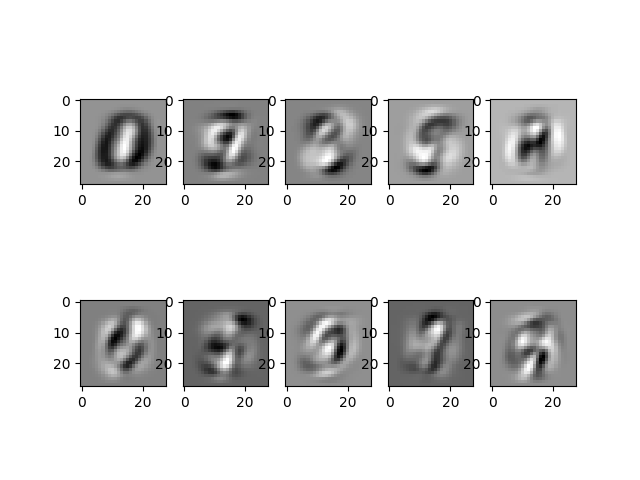
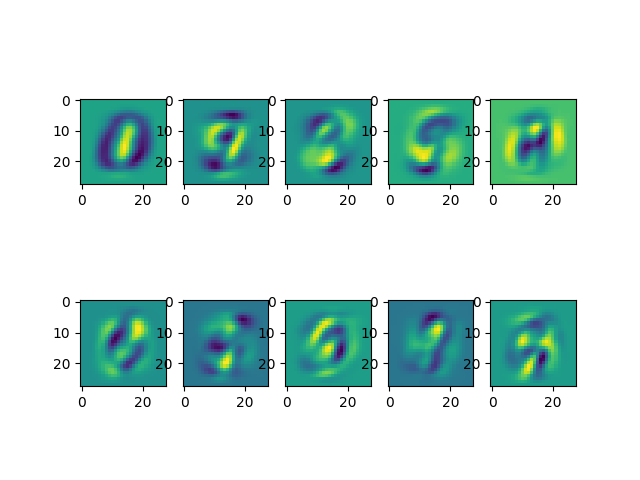
fixed a3

Changed region(s): [[0.125, 0.1875, 0.9062, 0.4062], [0.125, 0.625, 0.9062, 0.8125]]

diff --git a/hw4/cse446hw4.tex b/hw4/cse446hw4.tex
@@ -88,15 +88,9 @@ True. PCA uses pnly linear layers in contrast with the non-linear layers of the 
 \subsection*{a.}
 
 \begin{enumerate}
-  \item Let $\widehat{w}$ be the solution to the regression problem $\min_{w} \twonorm{Xw - y}$. Let $\widehat{w}_{\rm R}$ be the solution to the ridge regression problem $\min_w \twonorm{X w - y} + \lambda \twonorm{w}$. Let $X = U \Sigma V^\top$ be a singular value decomposition of $X$. Using this decomposition, explain why the solution $\widehat{w}_{\rm R}$ to the ridge regression problem ``shrinks'' as compared to the solution $\widehat{w}$ of the standard regression problem.
-  
-  The weights in the solution $\widehat{w}_{\rm R}$ to the ridge regression problem ``shrinks'' as compared to the solution $\widehat{w}$ of the standard regression problem since the singular values in the solution to the ridge regression problem are smaller, which are in response to the smaller variance that is achieved. (as is the purpose of using ridge regression over standard regression).
-  % small singular values due to lower variance in ridge regression (as is the aim)?
-  % I have no clue
-
+  \item 
+  % The weights in the solution $\widehat{w}_{\rm R}$ to the ridge regression problem ``shrinks'' as compared to the solution $\widehat{w}$ of the standard regression problem since the singular values in the solution to the ridge regression problem are smaller, which are in response to the smaller variance that is achieved. (as is the purpose of using ridge regression over standard regression).
   % Yes, using the singular value decomposition of X enables you to prove that the the ridge solution shrinks compared to the standard solution.
-
-  % extra lambda will make it shrink
 
   We can use algebra, and express $\widehat{w}$ and $\widehat{w}_{\rm R}$ in terms of the SVD of $X$ and compare their L2-norms: \\ \\
   Standard Regression: \\
@@ -120,9 +114,9 @@ True. PCA uses pnly linear layers in contrast with the non-linear layers of the 
   $= V(D^2 + \lambda)^{-1} V^\top VDU^\top y$ \\
   $= V(D^2 + \lambda)^{-1} DU^\top y$ \\
 
-  We note that the largest difference is that in $\widehat{w}$, our $D$-term is $D^{-1}$, while in $\widehat{w}_{\rm R}$, our $D$-term is $(D^2 + \lambda)^{-1}D$. We can compare this by transforming $D^{-1} = D^{-2}D$. The addition of a positive $\lambda$ term essentially shrinks this parameter and the overall $w$-solutions by increasing the factor by which we are dividing the $D$-term (and therefore overall term as well).
+  We note that the key difference is that in $\widehat{w}$, our $D$-term is $D^{-1}$, while in $\widehat{w}_{\rm R}$, our $D$-term is $(D^2 + \lambda)^{-1}D$. We can compare this by transforming $D^{-1} = D^{-2}D$. The addition of a positive $\lambda$ term essentially shrinks this parameter and the overall $w$-solutions by increasing the factor by which we are dividing the $D$-term (and therefore overall term as well).
 
-  \item Let $U \in \R^{n\times n}$ be a matrix with singular values all equal to one. Show that $UU^\top = U^\top U = I_n$. Further, use this result to show that $U$ preserves Euclidean norms. In other words, $\norm{U x}_2 = \norm{x}_2$ for any $x\in \R^n$. \\
+  \item 
   
   We first use SVD, and show that $UU^\top = I$: \\ 
   $UU^\top = X \Sigma V^\top (X \Sigma V^\top)^\top$ \\
@@ -142,33 +136,9 @@ True. PCA uses pnly linear layers in contrast with the non-linear layers of the 
   $= x^\top U^\top Ux$ \\
   $= x^\top x$ \hfill Since we showed $U^\top U = I$ \\
   $\norm{U x}^2_2 = \norm{x}^2_2$ \hfill By the aforementioned property \\
-  $\norm{U x}_2 = \norm{x}_2$ \hfill Algebra \\
-
-
-\end{enumerate}
-
-\subsection*{b.}
-
-\begin{enumerate}
-  \item 
-  We know that $\norm{x}_1 = \sum_{i=1}^{n} |x_i|$, by definition, which we note is both nondifferentiable and convex. Looking at the absolute value terms, we can express each one as $\text{max} \{ g \cdot x_i \}$ where $g \in {-1, 1}$, so we can essentially say that $\norm{x}_1 = \text{max}\{g^\top \cdot x_i\}$. \\ \\
-  We can thus find the subgradient set, we first must have $g^\top \cdot x = \norm{x}_1$. Using the absolute value idea as we did previously, we know that for $x_i > 0$, we have $g_i = 1$, while for $x_i < 0$, $g_i = -1$. The only point of interest is at $x_i = 0$, where we can select either $-1$ or $1$ to satisfy the optimization. Our overall set of subgradients can therefore be described as \\
-  $\{g \in \norm{g} \leq 1, g^\top \cdot x = \norm{x}_1\}$
-
-  \item $f(x) = \max \left\{f_i(x)\right\}_{i =1}^m$, where $f_i$ are all convex and continuously differentiable functions (i.e., gradients exist everywhere in the domain for $f_i$)
-  
-  We note that to find the subgradient for the maximum of all the convex and continuously differentiable functions. We can therefore choose some index $i$ such that $f_i(x) = f(x)$, which implies that the subgradient $g \in $ subgradients of $f$. This means that we can simply choose a function within $\left\{f_i(x)\right\}_{i =1}^m$, and then choose any subgradient. 
-  % $f(y) \geq f_i(y) \geq f_i(x) + g^\top (y - x) = f(x) + g^\top (y - x)$
-  % Convex hull thing 
+  $\norm{U x}_2 = \norm{x}_2$ \hfill Algebra
 
 \end{enumerate}
-
-\subsection*{c.}
-
-In this subproblem, you will need to use the result of part b above. Consider the function $f(x) = \max_{i = 1, 2, \dots, n} |x_i - (1 + \eta/i)|$ for some constant $\eta$. Let $v$ be any subgradient of $f$ at any point in its domain. What is the best upper bound you can prove on $\norm{v}_{\infty}$? \\
-
-$f(x) = \max_{i = 1, 2, \dots, n} |x_i - (1 + \eta/i)|$
-% Apply this elementwise
 
 }
 
@@ -208,8 +178,6 @@ $V_k^\top V_k (x - \mu) + \mu$
 
 \subsection*{d.}
 
-% Now let us get a sense of what the top PCA directions are capturing. Display the first $10$ eigenvectors as images, and provide a brief interpretation of what you think they capture.
-
 \begin{figure}[!hb]
   \centering
   \includegraphics[width=130mm]{../hw4-code/results/a3_d.png}
@@ -218,8 +186,6 @@ $V_k^\top V_k (x - \mu) + \mu$
 The first 10 eigenvectors are essentially trying to capture the most core visual elements of a number, or the most distinguishing features that a person can generally use to pick out and easily categorize any given digit. Each component essentially captures the most variation in the data, which provides the most information for reconstructing the image.
 
 \subsection*{e.}
-
-% Finally, visualize a set of reconstructed digits from the training set for different values of $k$. In particular provide the reconstructions for digits $2, 6, 7$ with values $k = 5, 15, 40, 100$ (just choose an image from each digit arbitrarily). Show the original image side-by-side with its reconstruction. Provide a brief interpretation, in terms of your perceptions of the quality of these reconstructions and the dimensionality you used.
 
 \begin{figure}[!hb]
   \centering
@@ -297,7 +263,7 @@ def part_d(v_list):
 
   for i, ax in enumerate(axes_list):
     img = v_list[:,i].reshape((28, 28))
-    ax.imshow(img, cmap='gray')
+    ax.imshow(img)
 
   fig.savefig(c.results_path + "a3_d")
 
@@ -316,7 +282,7 @@ def part_e(X_train, v_list):
   fig, axes = plt.subplots(5, len(idx_set))
 
   for i, ax in enumerate(axes.ravel()):
-    ax.imshow(final_set[i].reshape((28, 28)), cmap='gray')
+    ax.imshow(final_set[i].reshape((28, 28)))
 
   fig.savefig(c.results_path + "a3_e")
 
@@ -675,10 +641,10 @@ for i, item in enumerate(axes):
     break
 
 for i, ax in enumerate(real_axes_list):
-  ax.imshow(train_samples[i], cmap='gray')
+  ax.imshow(train_samples[i])
 
 for i, ax in enumerate(new_axes_list):
-  ax.imshow(new_samples[i], cmap='gray')
+  ax.imshow(new_samples[i])
 
 # plot 64
 
@@ -696,10 +662,10 @@ for i, item in enumerate(axes):
     break
 
 for i, ax in enumerate(real_axes_list):
-  ax.imshow(train_samples[i], cmap='gray')
+  ax.imshow(train_samples[i])
 
 for i, ax in enumerate(new_axes_list):
-  ax.imshow(new_samples[i], cmap='gray')
+  ax.imshow(new_samples[i])
 
 # plot 128
 
@@ -717,10 +683,10 @@ for i, item in enumerate(axes):
     break
 
 for i, ax in enumerate(real_axes_list):
-  ax.imshow(train_samples[i], cmap='gray')
+  ax.imshow(train_samples[i])
 
 for i, ax in enumerate(new_axes_list):
-  ax.imshow(new_samples[i], cmap='gray')
+  ax.imshow(new_samples[i])
 
 """# part (b)"""
 
@@ -760,10 +726,10 @@ for i, item in enumerate(axes):
     break
 
 for i, ax in enumerate(real_axes_list):
-  ax.imshow(train_samples[i], cmap='gray')
+  ax.imshow(train_samples[i])
 
 for i, ax in enumerate(new_axes_list):
-  ax.imshow(new_samples[i], cmap='gray')
+  ax.imshow(new_samples[i])
 
 # plot 64
 
@@ -781,10 +747,10 @@ for i, item in enumerate(axes):
     break
 
 for i, ax in enumerate(real_axes_list):
-  ax.imshow(train_samples[i], cmap='gray')
+  ax.imshow(train_samples[i])
 
 for i, ax in enumerate(new_axes_list):
-  ax.imshow(new_samples[i], cmap='gray')
+  ax.imshow(new_samples[i])
 
 # plot 128
 
@@ -802,10 +768,10 @@ for i, item in enumerate(axes):
     break
 
 for i, ax in enumerate(real_axes_list):
-  ax.imshow(train_samples[i], cmap='gray')
+  ax.imshow(train_samples[i])
 
 for i, ax in enumerate(new_axes_list):
-  ax.imshow(new_samples[i], cmap='gray')
+  ax.imshow(new_samples[i])
 
 """# part (c)"""
 
@@ -1016,7 +982,7 @@ for item in axes:
   axes_list += list(item)
 
 for i, ax in enumerate(axes_list):
-  ax.imshow(centroids[i][0], cmap='gray_r')
+  ax.imshow(centroids[i][0])
 
 train_error_final = []
 test_error_final = []

diff --git a/hw4-code/src/pca.py b/hw4-code/src/pca.py
@@ -59,7 +59,7 @@ def part_d(v_list):
 
   for i, ax in enumerate(axes_list):
     img = v_list[:,i].reshape((28, 28))
-    ax.imshow(img, cmap='gray')
+    ax.imshow(img)
 
   fig.savefig(c.results_path + "a3_d")
 
@@ -78,7 +78,7 @@ def part_e(X_train, v_list):
   fig, axes = plt.subplots(5, len(idx_set))
 
   for i, ax in enumerate(axes.ravel()):
-    ax.imshow(final_set[i].reshape((28, 28)), cmap='gray')
+    ax.imshow(final_set[i].reshape((28, 28)))
 
   fig.savefig(c.results_path + "a3_e")
 
@@ -99,7 +99,7 @@ def main():
   # h.plot_multiple("obj over k", "a3_cobj", "k", "obj", 
   #                 [frac_data], ["frac"])
 
-  # part_d(v_list) 
+  part_d(v_list) 
 
   part_e(X_train, v_list)
 
